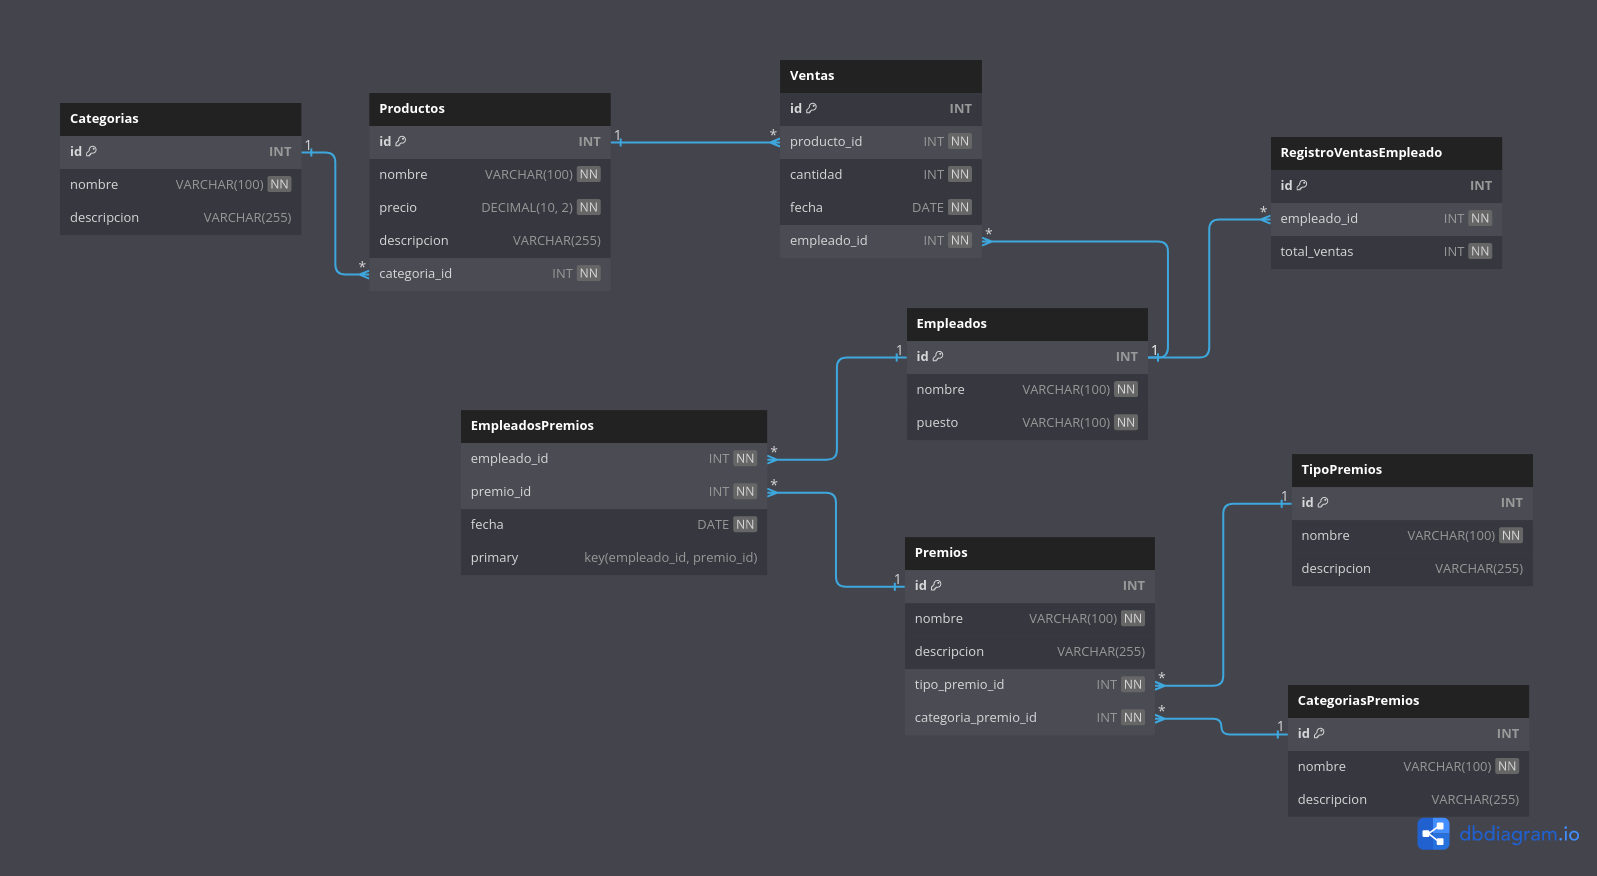
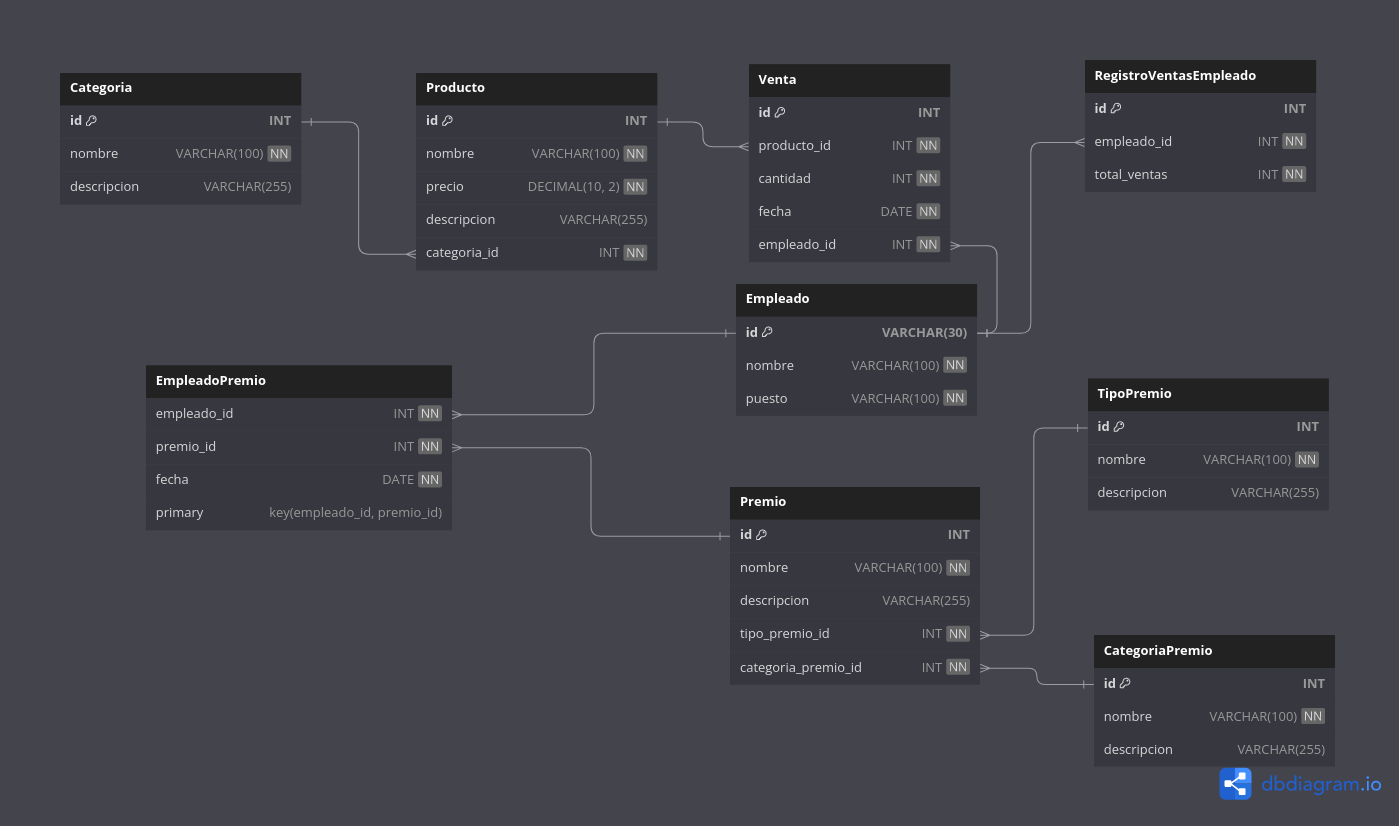
docs: :memo: Update README
names in singular of databases in the schema in doc and image.

diff --git a/README.md b/README.md
@@ -32,7 +32,7 @@ El desarrollo de stonksn't se llevará a cabo en varias etapas:
    - Se implementarán las rutas y controladores para las operaciones CRUD en las tablas de la base de datos.
    - Se realizarán pruebas exhaustivas para garantizar la funcionalidad correcta del backend.
 2. Base de datos MySQL:
-   - Se creará una base de datos en MySQL para almacenar la información de los productos, categorías, ventas, empleados, premios y registro de ventas de empleados.
+   - Se creará una base de datos en MySQL para almacenar la información de los productos, categorías, ventas, empleados, premios, categoría de premio, tipo de premio y registro de ventas de empleados.
 
 ## Descripción del Proyecto
 
@@ -40,21 +40,21 @@ El sistema "stonksn't" se basa en el análisis estadístico de productos y la pr
 
 ### Tablas de la Base de Datos
 
-1. **Categorías:** Almacena las categorías de los productos.
+1. **Categoría:** Almacena las categorías de los productos.
    - `categoría_id` (PRIMARY KEY): Identificador único de la categoría.
    - `nombre`: Nombre de la categoría.
    - `descripción`: Descripción de la categoría.
-2. **Productos:** Contiene la información de los productos vendidos.
+2. **Producto:** Contiene la información de los productos vendidos.
    - `producto_id` (PRIMARY KEY): Identificador único del producto.
    - `nombre`: Nombre del producto.
    - `precio`: Precio del producto.
    - `descripción`: Descripción del producto.
    - `categoría_id` (FOREIGN KEY): Clave foránea que referencia la categoría del producto.
-3. **Empleados:** Guarda la información de los empleados de la empresa.
+3. **Empleado:** Guarda la información de los empleados de la empresa.
    - `empleado_id` (PRIMARY KEY): Identificador único del empleado.
    - `nombre`: Nombre del empleado.
    - `puesto`: Puesto o cargo del empleado en la empresa.
-4. **Ventas:** Registra las ventas realizadas.
+4. **Venta:** Registra las ventas realizadas.
    - `venta_id` (PRIMARY KEY): Identificador único de la venta.
    - `producto_id` (FOREIGN KEY): Clave foránea que referencia el producto vendido.
    - `cantidad`: Cantidad de productos vendidos.
@@ -64,21 +64,21 @@ El sistema "stonksn't" se basa en el análisis estadístico de productos y la pr
    - `registro_id` (PRIMARY KEY): Identificador único del registro.
    - `empleado_id` (FOREIGN KEY): Clave foránea que referencia al empleado.
    - `total_ventas`: Total de ventas realizadas por el empleado.
-6. **Premios:** Registra los premios otorgados a los empleados.
+6. **Premio:** Registra los premios otorgados a los empleados.
    - `premio_id` (PRIMARY KEY): Identificador único del premio.
    - `nombre`: Nombre del premio.
    - `descripción`: Descripción del premio.
    - `tipo_premio_id` (FOREIGN KEY): Clave foránea que referencia el tipo de premio.
    - `categoría_premio_id` (FOREIGN KEY): Clave foránea que referencia la categoría del premio.
-7. **CategoríasPremios:** Almacena las categorías de premios.
+7. **CategoríaPremio:** Almacena las categorías de premios.
    - `categoría_premio_id` (PRIMARY KEY): Identificador único de la categoría de premio.
    - `nombre`: Nombre de la categoría de premio.
    - `descripción`: Descripción de la categoría de premio.
-8. **TipoPremios:** Registra los tipos de premios (incentivo económico o no económico).
+8. **TipoPremio:** Registra los tipos de premios (incentivo económico o no económico).
    - `tipo_premio_id` (PRIMARY KEY): Identificador único del tipo de premio.
    - `nombre`: Nombre del tipo de premio.
    - `descripción`: Descripción del tipo de premio.
-9. **EmpleadosPremios:** Tabla de relación muchos a muchos que asocia empleados con los premios que han recibido.
+9. **EmpleadoPremio:** Tabla de relación muchos a muchos que asocia empleados con los premios que han recibido.
    - `empleado_id` (PRIMARY KEY, FOREIGN KEY): Identificador único del empleado que recibió el premio.
    - `premio_id` (PRIMARY KEY, FOREIGN KEY): Identificador único del premio otorgado al empleado.
    - `fecha`: Fecha en la que se otorgó el premio al empleado.
